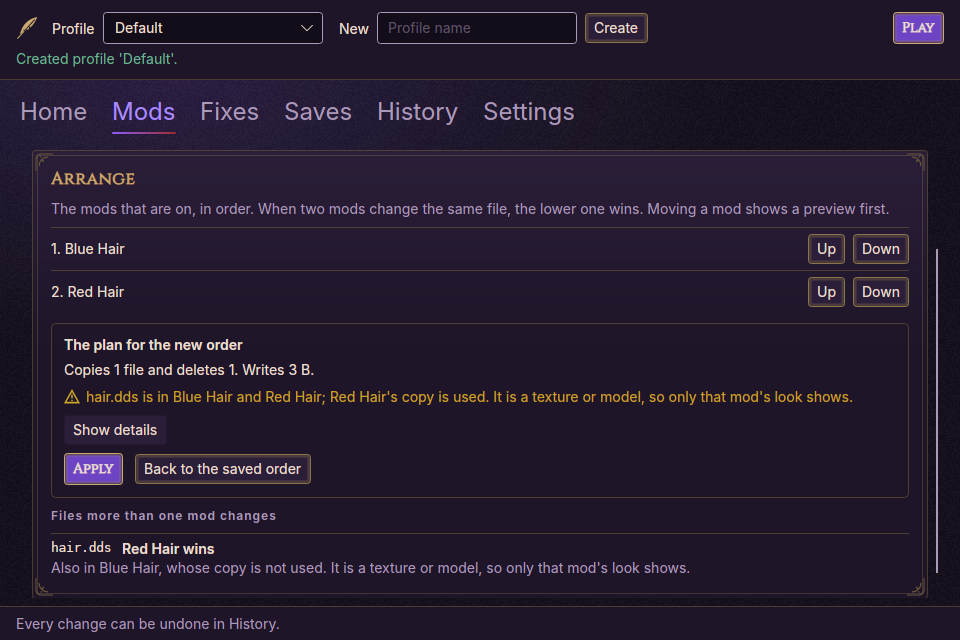
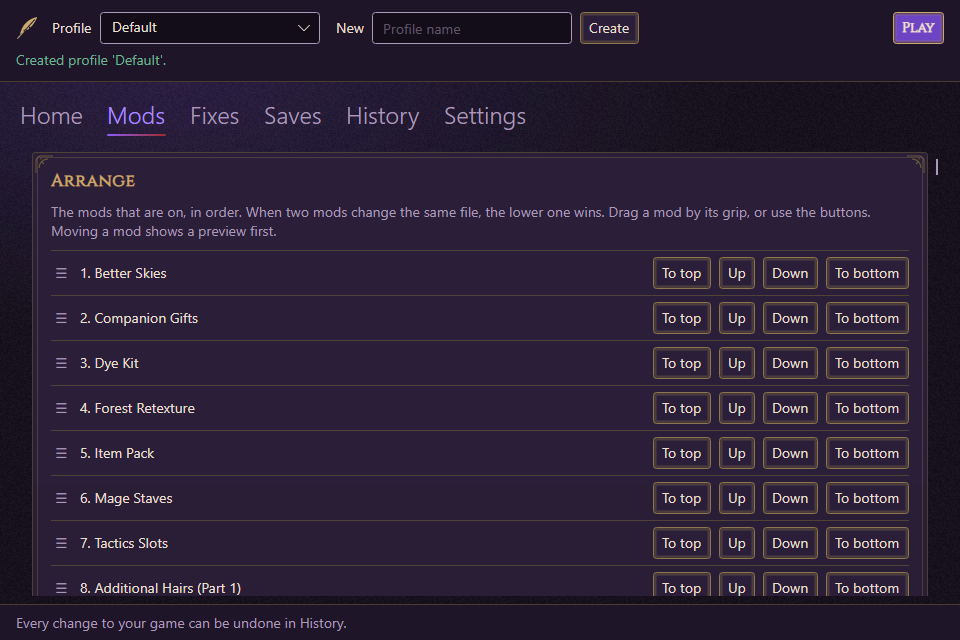
release: prepare 0.6.0, help when something goes wrong and fewer copies (P2.6-72) (#200)
* fix(app): a held-back download stays in New downloads until answered (P2.6-71)

Look before adding held a download back, but AddPathsAsync counted it as
added, so New downloads marked its row as dealt with straight away. Cancel,
or an Add anyway that failed, then lost it for good (#189).

AddPathsAsync now returns what was held back along with what failed. Look
before adding tells New downloads which downloads the player answered for
(Manage it, or an Add anyway that worked), and only those rows go.

Fixes #189.

* test(app): Add all keeps only the download held back (P2.6-71)

From the code review: covers AddPathsAsync's return with one download held
and one added in the same batch.

* docs(adr): accept ADR-0044 and ADR-0045 (P2.6-72)

The owner accepted both on 2026-11-10, before 0.6.0, which carries their code.

* docs(readme): the features and pictures of 0.6.0 (P2.6-72)

The README ships in the zip. It gains Find the problem mod, What changed,
keeping one copy of each, backups that reuse the Library and conflicts
ranked by what could break quests. Its pictures showed the rows from before
0.6.0; they now come from today's window tests, mostly the real-scale
library, with two new ones for Combined files and Find the problem mod.

* release: prepare 0.6.0, help when something goes wrong and fewer copies (P2.6-72)

Sets the version, moves Unreleased into a 0.6.0 section and adds an audit
re-run. The section had grown two Changed and two Fixed lists over the
[…]

diff --git a/CHANGELOG.md b/CHANGELOG.md
@@ -6,6 +6,12 @@ All notable changes to DAORework are recorded here. The format follows
 
 ## [Unreleased]
 
+## [0.6.0] - 2026-11-10
+
+Help when something goes wrong, and fewer copies of your mods. *Find the problem mod* turns half your mods off each round until one is left, and *What changed* shows what's new since your last game with other mods, with a way back. *Combined files* and previews put what could break quests first. Adding a mod looks first, and *Keep one of each* clears the copies a library builds up. The Mods page is one list of one-line rows with search, sort and drag, a next step worked out from where you are, and first steps for a new player. Backups reuse your Library instead of filling your drive, and a batch carries on past a mod that fails.
+
+Nothing changes in what DAORework will install: mods that run inside the game are still recognised but not installed, and there is still no Linux download.
+
 ### Changed
 - *What changed* (P2.6-57, [ADR-0043](docs/adr/0043-last-known-good.md)). Each *Play* records your mods, so when something breaks you can see what's new since your last game with other mods, and go back to them with a preview and *Undo*.
 - *Find the problem mod* (P2.6-56, [ADR-0042](docs/adr/0042-finding-the-problem-mod.md)). It turns off half your mods, you play and say whether the problem still happens, and it repeats until one is left: about 8 rounds for 137 mods. Every round is a preview with *Undo*, the search survives closing DAORework, and everything goes back at the end.
@@ -14,35 +20,11 @@ All notable changes to DAORework are recorded here. The format follows
 - A batch goes on without what fails (P2.6-53). *Take them over*, *Turn on selected* and adding several downloads carry on when one mod can't, and say which one and why: "Turned on 53 mods. Blue Hair needs a look: ...". If one mod's file stops a change partway, the change is put back and the rest come back as a preview without that mod. *Keep one of each* removes what it can instead of stopping at the first it can't.
 - A preview of mods to manage offers *Leave out* (P2.6-53), as turning on already did.
 - Removed copies go to the Recycle Bin (P2.6-60, [ADR-0039](docs/adr/0039-look-first-and-keep-one-copy.md)), so a mod removed by mistake can be put back. The space comes back when you empty it.
-
-### Fixed
-- A download that couldn't be added stays in *New downloads*, so you can try it again (P2.6-64, [#181](https://github.com/arastella625/DAORework/issues/181)).
-- A download that looks like something you already have stays in *New downloads* until you answer (P2.6-71, [#189](https://github.com/arastella625/DAORework/issues/189)). *Cancel* lost it for good, as did an *Add anyway* that didn't work.
-- *Combined files* no longer repeats itself (P2.6-65). Many files inside archives with the same mods and the same risk are one row, and the card counts what the list shows.
-- A preview warns about what this change touches, not every file your mods already share, and *Show details* says which mods go on and off (P2.6-66).
-- Backups stop filling your drive (P2.6-67, [ADR-0045](docs/adr/0045-backups-reuse-the-library.md)). A file DAORework placed that your Library still has isn't copied again, and *Undo* brings it back from the Library. One round of *Find the problem mod* added 7.4 GB on a real library. Backups you already have keep their copies and the space they use.
-- Coming back to the window no longer moves the page (P2.6-68). It scrolled to whatever had focus before you left, so the click that brought the window back could land on something else. Moving with Tab still scrolls.
-- *Find the problem mod* waits when your mods change under it (P2.6-69). After an *Undo* in History it still asked about "the 31 still on" with all 62 back on. It now says so and offers *Put this round's mods back*.
-- An undone change leaves History (P2.6-70), where it read *Changed no mods*.
-- The window no longer says all is well before it knows (P2.6-61). Until it has read which files your mods share, which can take a minute the first time, the cards say *Checking* instead of *Ready*, and *Combined files* doesn't say none are shared.
-- A second copy of DAORework no longer opens on the same mods (P2.6-62, [ADR-0044](docs/adr/0044-one-window-at-a-time.md)). It says *DAORework is already open* and closes, since two windows could undo each other's changes.
-- *Find the problem mod* is easier to reach (P2.6-63). Home and the Mods tab each have a button for it, as it was only behind the *Combined files* card.
-- An unexpected error no longer shows its raw text (P2.6-53). The window says it didn't work and what to do, and the details stay in the log.
-- An entry holding only a readme or a Mac leftover now counts as part of the mod of its name (P2.6-52), so *Keep one of each* offers to clear it. *Take them over* no longer turns such files into a mod of their own, which is how a list ended up showing mods twice.
-- A preview warns when a file being moved sits beside other files (P2.6-51), since a mod DAORework doesn't look after may use it too.
-- *Take them over* no longer stops when the name for loose files was typed and cleared (P2.6-51), and a right-click on a grip in *Arrange* no longer starts a drag.
-
-### Changed
 - Reading your mods again does less work (P2.6-46). A list of 138 mods changed 9,730 times and now changes once, and *Found in your game* reads about four times faster.
 - Long lists stay quick (P2.6-49). Only the rows on screen are built, and a row stays when its mod hasn't changed, so a search keystroke takes about a tenth of the time it did with 138 mods.
 - The window's footer says what it's working on (P2.6-45), so a wait no longer looks like nothing happening. Hover now shows on every button in every theme, and a button you can't press yet looks it.
-
-### Fixed
-- *Manage* no longer stops on "An item with the same key has already been added" (P2.6-43). It happened when something found in your game was a leftover of a mod already on, and mods shared `chargenmorphcfg.xml`. A mod found in two places is now managed once, with the other copy cleared, and *Swap* works when a leftover is in the same change.
-
-### Changed
 - *Keep one of each* clears every set of copies from one preview (P2.6-42, [ADR-0039](docs/adr/0039-look-first-and-keep-one-copy.md)). It's the next step once your game is taken over, so you don't have to look for it. A mod that's only part of another counts as a copy, so fragments left by moving from Vortex show and go too. Each set starts on the copy that holds everything, and you can pick another or *Keep all of them*. Copies that really aren't the same come first and stay unless you pick one, so nothing is lost by not reading. The preview says how much space comes back, and every swap is one change. A set that's on in another profile stays as it is and says why, and the others go ahead.
-- *Keep this one* on a mod with copies removes the others from your Library (P2.6-40, [ADR-0039](docs/adr/0039-look-first-and-keep-one-copy.md)). The preview says how much space comes back and what exists only in a copy being removed. A copy that's on gives its place to the one you keep. Removing can't be undone, and *Undo* now says so if it needs a mod that has gone: add the same download again and it works.
+- *Keep this one* on a mod with copies removes the others from your Library (P2.6-40, [ADR-0039](docs/adr/0039-look-first-and-keep-one-copy.md)). The preview says how much space comes back and what exists only in a copy being removed. A copy that's on gives its place to the one you keep. Removed copies go to the Recycle Bin. *Undo* says so if it needs a mod that has gone, and adding the same download again makes it work.
 - Adding a mod looks first (P2.6-39, [ADR-0039](docs/adr/0039-look-first-and-keep-one-copy.md)). A download that looks like something in your game offers *Manage it*, so you take over what you have instead of adding a second copy, and one that looks like something in your Library says so. *Add anyway* is always there, since names alone can't prove two mods are the same.
 - A new player sees where they are on the way to a first game with mods: *Find your game*, *Add mods*, *Turn them on* (P2.6-36). It goes once a mod is on.
 - Drag a mod by its grip in *Arrange* to put it anywhere, with one preview (P2.6-35).
@@ -67,6 +49,24 @@ All notable changes to DAORework are recorded here. The format follows
 - *Leave out* takes the mods that stop a change out of it, so the rest can go ahead (P2.6-13). They stay in your Library, off.
 - Vortex's folder markers, Mac leftovers, readmes and other documents no longer count as files mods share (P2.6-13), in a preview, on *Combined files* or on the command line.
 - Those files stay in your Library and no longer reach your game (P2.6-14, [ADR-0036](docs/adr/0036-only-mod-files-reach-the-game.md)). A mod already on loses them at its next change, which the preview says, and *Undo* puts them back. A folder in `override` holding nothing else isn't offered as a mod.
+
+### Fixed
+- A download that couldn't be added stays in *New downloads*, so you can try it again (P2.6-64, [#181](https://github.com/arastella625/DAORework/issues/181)).
+- A download that looks like something you already have stays in *New downloads* until you answer (P2.6-71, [#189](https://github.com/arastella625/DAORework/issues/189)). *Cancel* lost it for good, as did an *Add anyway* that didn't work.
+- *Combined files* no longer repeats itself (P2.6-65). Many files inside archives with the same mods and the same risk are one row, and the card counts what the list shows.
+- A preview warns about what this change touches, not every file your mods already share, and *Show details* says which mods go on and off (P2.6-66).
+- Backups stop filling your drive (P2.6-67, [ADR-0045](docs/adr/0045-backups-reuse-the-library.md)). A file DAORework placed that your Library still has isn't copied again, and *Undo* brings it back from the Library. One round of *Find the problem mod* added 7.4 GB on a real library. Backups you already have keep their copies and the space they use.
+- Coming back to the window no longer moves the page (P2.6-68). It scrolled to whatever had focus before you left, so the click that brought the window back could land on something else. Moving with Tab still scrolls.
+- *Find the problem mod* waits when your mods change under it (P2.6-69). After an *Undo* in History it still asked about "the 31 still on" with all 62 back on. It now says so and offers *Put this round's mods back*.
+- An undone change leaves History (P2.6-70), where it read *Changed no mods*.
+- The window no longer says all is well before it knows (P2.6-61). Until it has read which files your mods share, which can take a minute the first time, the cards say *Checking* instead of *Ready*, and *Combined files* doesn't say none are shared.
+- A second copy of DAORework no longer opens on the same mods (P2.6-62, [ADR-0044](docs/adr/0044-one-window-at-a-time.md)). It says *DAORework is already open* and closes, since two windows could undo each other's changes.
+- *Find the problem mod* is easier to reach (P2.6-63). Home and the Mods tab each have a button for it, as it was only behind the *Combined files* card.
+- An unexpected error no longer shows its raw text (P2.6-53). The window says it didn't work and what to do, and the details stay in the log.
+- An entry holding only a readme or a Mac leftover now counts as part of the mod of its name (P2.6-52), so *Keep one of each* offers to clear it. *Take them over* no longer turns such files into a mod of their own, which is how a list ended up showing mods twice.
+- A preview warns when a file being moved sits beside other files (P2.6-51), since a mod DAORework doesn't look after may use it too.
+- *Take them over* no longer stops when the name for loose files was typed and cleared (P2.6-51), and a right-click on a grip in *Arrange* no longer starts a drag.
+- *Manage* no longer stops on "An item with the same key has already been added" (P2.6-43). It happened when something found in your game was a leftover of a mod already on, and mods shared `chargenmorphcfg.xml`. A mod found in two places is now managed once, with the other copy cleared, and *Swap* works when a leftover is in the same change.
 
 ## [0.5.0] - 2026-11-04
 
@@ -246,7 +246,8 @@ CLI does what it did before, with the fixes listed under *Fixed*.
 - Report JSON uses one consistent camelCase naming (P0-06).
 - The README tree and command list are correct again (P0-14).
 
-[Unreleased]: https://github.com/arastella625/DAORework/compare/v0.5.0...HEAD
+[Unreleased]: https://github.com/arastella625/DAORework/compare/v0.6.0...HEAD
+[0.6.0]: https://github.com/arastella625/DAORework/releases/tag/v0.6.0
 [0.5.0]: https://github.com/arastella625/DAORework/releases/tag/v0.5.0
 [0.4.0]: https://github.com/arastella625/DAORework/releases/tag/v0.4.0
 [0.3.2]: https://github.com/arastella625/DAORework/releases/tag/v0.3.2

diff --git a/README.md b/README.md
@@ -33,18 +33,26 @@ publisher. A new publisher still builds up reputation with Windows SmartScreen, 
 
 ## What it does
 
-![Home after creating a profile: ready to play, the setup at a glance, and what is worth a look](docs/screenshots/readme/01-next-steps.png)
+![Home: the next step, the last change with Undo, and the setup at a glance](docs/screenshots/readme/01-next-steps.png)
 
 - **Takes over the mods you already installed by hand**, in `override` and `AddIns`, without reinstalling them.
   Official DLC is never touched.
 - **Moves your mods over from Vortex.** *Move from Vortex* takes you through it a step at a time: copy them, purge in
   Vortex, then turn them on in the same order. It has only been run on simulated Vortex records so far, and doesn't
   cover add-ins Vortex placed yet.
+- **Helps when something goes wrong.** *Find the problem mod* turns off half your mods each round; you play, say
+  whether the problem is still there, and in a few rounds one mod is left. Everything goes back at the end. *What
+  changed* shows what's new since your last game with other mods, and takes you back to them.
+- **Keeps one copy of each mod.** Adding a mod looks first: if it looks like something already in your game, you're
+  offered *Manage it* instead of a second copy. *Keep one of each* clears the copies a library builds up, into the
+  Recycle Bin.
 - **Picks up new downloads, if you turn it on.** When you come back from your browser, the mods you downloaded are
   offered on the Mods page. Nothing is added without a click.
 - **Installs mods safely.** Import a `.dazip`, `.zip`, `.7z` or `.rar` (or drop it on the window). Activating shows
-  exactly what will be copied, replaced or removed first, takes a backup, and can be rolled back.
-- **Shows conflicts.** For every file two mods share, whose copy the game uses, and lets you reorder them. Files
+  exactly what will be copied, replaced or removed first, takes a backup, and can be rolled back. Backups reuse the
+  files your Library already has, so they don't fill your drive.
+- **Shows conflicts,** most serious first: files that could break quests before those that only change how things
+  look. For every file two mods share, whose copy the game uses, and lets you reorder them. Files
   inside `.erf` archives are compared too, though there DAORework can't tell which copy the game uses.
 - **Checks every mod.** Programs inside a mod are named and never installed, your own antivirus scans every mod before
   it is kept, and a download that differs from the known official one is pointed out. Mods that run inside the game,
@@ -68,9 +76,9 @@ every write and proves each change still ends fully before or fully after. Both 
 install; GOG and EA App installs still need a real run ([#5](https://github.com/arastella625/DAORework/issues/5)).
 Phase 2.5 (release 0.3.0, the first public one) puts all of it in the window and adds adopting the mods you installed
 by hand, `.7z` and `.rar` import, the load order and its conflicts, and mod safety checks (programs never installed,
-your antivirus scans every mod, downloads compared with the known official ones). Phase 2.6 (releases 0.3.1 to 0.5.0)
-follows what real use shows: several mods at once, the six-tab window, combining hair and head mods, and moving from
-Vortex. 0.5.0 also carries the first parts of three later pieces of work: mods that run inside the game, Steam on
+your antivirus scans every mod, downloads compared with the known official ones). Phase 2.6 (releases 0.3.1 to 0.6.0)
+follows what real use shows: several mods at once, the six-tab window, combining hair and head mods, moving from
+Vortex, and in 0.6.0 finding the mod behind a problem and keeping one copy of each. 0.5.0 also carries the first parts of three later pieces of work: mods that run inside the game, Steam on
 Linux (there is no Linux download yet) and the file-format toolkit.
 
 ## How it is built
@@ -107,7 +115,7 @@ dotnet run --project src/DAORework.App
 
 Create a profile in the header: DAORework finds your install and documents folder, checks them, and **Home** says
 whether the game is ready to play, shows your add-ins, override mods and combined files at a glance, and lists what is
-worth a look. **Mods** is one page for every mod, with a switch for each, the ones found in your game, *Arrange* for
+worth a look. **Mods** is one page for every mod, with a switch for each, search and sort, the ones found in your game, *Arrange* for
 the load order and the files mods share, and *Move from Vortex* and *New downloads* when they apply; **Fixes** installs DXVK, and the 4 GB patch where the copy allows it;
 **Saves** backs up your saves; **History** lists every change, each with *Undo*; and **Settings** holds your theme or
 look, the game folders and Troubleshooting. Every change shows a preview before anything is written, and **Play**
@@ -117,11 +125,13 @@ freely; the CLI keeps its own words (`activate`, `adopt`, `rollback`).
 | | |
 |---|---|
 | ![The Library on the Mods tab](docs/screenshots/readme/02-library.png) | ![The plan shown before activating a mod](docs/screenshots/readme/03-activate-plan.png) |
-| **Mods:** add by button or drop; each mod's antivirus result and program files | **Turn on:** a preview first, nothing written until Apply |
+| **Mods:** one line each, with a switch, and whether it wins or loses the files it shares | **Turn on:** a preview first, what could break quests at the top, nothing written until Apply |
 | ![Arranging the load order and the files mods share](docs/screenshots/readme/04-load-order.png) | ![Managing a mod found in the game](docs/screenshots/readme/05-adopt-plan.png) |
-| **Arrange:** whose copy of a shared file wins, reordered through a preview | **Manage:** a mod you installed by hand, taken over without reinstalling |
+| **Arrange:** whose copy of a shared file wins; drag a mod, or send it to the top or bottom | **Manage:** mods you installed by hand, taken over without reinstalling, with *Swap* for who wins |
+| ![Combined files, most serious first](docs/screenshots/readme/10-combined-files.png) | ![A round of Find the problem mod](docs/screenshots/readme/11-problem-search.png) |
+| **Combined files:** what your mods share, what could break quests first | **Find the problem mod:** half off each round, until one is left |
 | ![The Fixes tab](docs/screenshots/readme/06-fixes.png) | ![Undoing a change in History](docs/screenshots/readme/07-rollback.png) |
-| **Fixes:** DXVK, the 4 GB patch on copies that allow it, and when Steam's Verify integrity undid one | **History:** any change undone, asked once more |
+| **Fixes:** DXVK, the 4 GB patch on copies that allow it, and when Steam's Verify integrity undid one | **History:** every change, each with *Undo to here* |
 | ![Four themes on the Settings tab](docs/screenshots/readme/08-themes.png) | ![A custom look with a picture](docs/screenshots/readme/09-custom-look.png) |
 | **Themes:** four dark themes | **Your looks:** your own accent and background picture |
 

diff --git a/docs/CURRENT_STATE_AUDIT.md b/docs/CURRENT_STATE_AUDIT.md
@@ -156,3 +156,39 @@ Phase 0's observation about Cli coverage no longer holds: it is now 89.4%, thoug
 **Not covered by these numbers:** tests use test folders, so they don't show a real install, the window on a real
 setup, or the game itself. What has and hasn't been run for real is recorded in the roadmap, task by task: *Move from
 Vortex* on simulated records only, and *New downloads* on test folders only.
+
+---
+
+## 0.6.0 re-run
+
+**Date:** 2026-11-10
+**Commit:** `main` at `6e4826b` with P2.6-71 ([#199](https://github.com/arastella625/DAORework/pull/199)) and the version set to 0.6.0
+**Build:** succeeds with `TreatWarningsAsErrors`. One Avalonia XAML warning, which that setting doesn't cover:
+`TextBox.Watermark` is obsolete in `ProblemSearchPanel.axaml` (AVLN5001).
+**Tests:** 1,789 total, 0 failing, 0 skipped (Core 686, Application 307, Infrastructure 384, Architecture 11, Cli 75,
+App 298, Formats 12, fault injection 16), on Windows
+
+Measured as the 0.5.0 re-run was, on the Release build, with `scripts/check-coverage.ps1` given every assembly.
+
+| Measure | 0.5.0 | 0.6.0 | Gate |
+|---|---|---|---|
+| Line coverage, Core | 97.7% | 97.5% | Core and Application together ≥ 80% (CI); 96.6% |
+| Line coverage, Application | 95.6% | 95.6% | as above |
+| Line coverage, Infrastructure | 92.9% | 93.3% | none |
+| Line coverage, Cli | 89.4% | 89.4% | none |
+| Line coverage, App | 93.4% | 94.9% | none |
+| Line coverage, Formats | 100% | 100% | none |
+| Largest source file | `LoadOrderViewModel.cs`, 240 lines | `ProblemSearchViewModel.cs`, 294 lines | ≤ 300 (CI) |
+| Source files / lines under `src/` | 629 files, 25,303 lines of C# | 737 files, 31,035 lines of C# | |
+| Exceptions to the file-size limit | none | none | |
+| Architecture tests | 11, none skipped | 11, none skipped | must be green |
+
+**Open High/Blocker items:** none in this document. Open work is in [ROADMAP.md](ROADMAP.md) and the issues.
+
+**Worth watching:** three view models are close to the 300-line limit: `ProblemSearchViewModel.cs` (294),
+`LoadOrderViewModel.cs` (283) and `ModAdoptionViewModel.cs` (255). The next behaviour for any of them goes in a new
+class, as the standards already ask, rather than a split made only to get under the limit.
+
+**Not covered by these numbers:** tests use test folders and made-up mods. The owner tried 0.6.0's work twice on their own
+library of about 137 mods, and what that found is fixed (P2.6-61 to P2.6-70). What still
+needs a hand check before the tag is listed in [the release notes' draft](release/0.6.0-draft.md).

diff --git a/docs/ROADMAP.md b/docs/ROADMAP.md
@@ -231,9 +231,9 @@ platform item was carried into Phase 2.*
 
 ## Phase 2.6: After launch
 
-**Status: in progress.** Releases `v0.3.1` to `v0.5.0` came from this work (see [CHANGELOG.md](../CHANGELOG.md)). Open:
+**Status: in progress.** Releases `v0.3.1` to `v0.6.0` came from this work (see [CHANGELOG.md](../CHANGELOG.md)). Open:
 P2.5-23, P2.5-31's add-ins ([#116](https://github.com/arastella625/DAORework/issues/116)), the SonarCloud findings
-(P2.5-37, P2.5-38), P2.6-09, and the two items carried from Phase 2.5's exit gate. Opened on 2026-11-03 for the work that had
+(P2.5-37, P2.5-38), and the two items carried from Phase 2.5's exit gate. Opened on 2026-11-03 for the work that had
 been added to Phase 2.5 after 0.3.0.
 
 **Scheduled on 2026-11-04 (P2.6-11):** the owner accepted ADR-0031, ADR-0033 and ADR-0034 and asked for work towards a
@@ -443,6 +443,9 @@ decision.
   the owner decided on 2026-11-04.
 - P2.6-12 Release 0.5.0: the version, the changelog's section, the audit re-run and this roadmap. The tag is the
   owner's, after the hand checks. Phases 2.6, 2.7 and 2.8 stay open: 0.5.0 carries what is done of each.
+- P2.6-72 Release 0.6.0: the version, the changelog's section, the audit re-run, the README and its pictures, and this
+  roadmap, with ADR-0044 and ADR-0045 accepted by the owner on 2026-11-10. The tag is the owner's, after the hand checks
+  in [the release notes' draft](release/0.6.0-draft.md). 0.6.0 carries nothing new from Phases 2.7 and 2.8.
 
 **A real library** *(added 2026-11-04, from the owner's first run of 0.5.0 on about 70 mods moved over from Vortex: a
 preview of 63 mods was one paragraph of names and hundreds of warnings, with what stopped it last. Screen tests had two
@@ -574,7 +577,7 @@ a search keystroke takes under 0.05 s, on `RealScaleLibrary` and on the owner's 
 
 - P2.6-09 Run the tests on Windows in CI: `ci.yml` runs them on Linux only, which is how P2.6-02's failures reached
   `main` unnoticed. A second job runs `dotnet test` on `windows-latest` for every PR and push to `main`, and
-  `.github/rulesets/main.json` makes it a required check. The Linux job stays as it is.
+  `.github/rulesets/main.json` makes it a required check. The Linux job stays as it is. *Done (#148).*
 
 **Not in this phase:** the same as Phase 2.5's.
 

diff --git a/docs/release/0.6.0-draft.md b/docs/release/0.6.0-draft.md
@@ -44,6 +44,6 @@ DAORework now tells you what to do next, and stops you ending up with two copies
 - See the *Checking* cards on a real library, and play a whole search down to one mod in the game.
 - Try *Keep one of each*, the Recycle Bin and *Undo* on a library with copies, which the owner's no longer has.
 - Run `scripts/verify-real-install.ps1` on the owner's PC.
-- Accept or change ADR-0044 and ADR-0045. ADR-0040 stays Proposed.
-- Replace the README's screenshots, which show the old rows.
+- ~~Accept or change ADR-0044 and ADR-0045.~~ Accepted on 2026-11-10. ADR-0040 stays Proposed.
+- ~~Replace the README's screenshots, which show the old rows.~~ Done in the release PR.
 - After the release, update the website's *Check your download* by hand.

diff --git a/docs/adr/0045-backups-reuse-the-library.md b/docs/adr/0045-backups-reuse-the-library.md
@@ -1,6 +1,6 @@
 # ADR-0045: Backups reuse the Library
 
-- **Status:** Proposed
+- **Status:** Accepted (owner, 2026-11-10)
 - **Date:** 2026-11-06
 
 ## Context

diff --git a/docs/adr/0044-one-window-at-a-time.md b/docs/adr/0044-one-window-at-a-time.md
@@ -1,6 +1,6 @@
 # ADR-0044: One window at a time
 
-- **Status:** Proposed
+- **Status:** Accepted (owner, 2026-11-10)
 - **Date:** 2026-11-06
 
 ## Context
